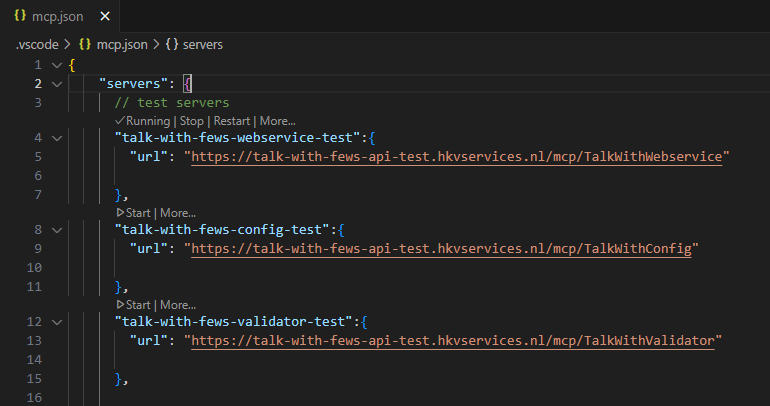
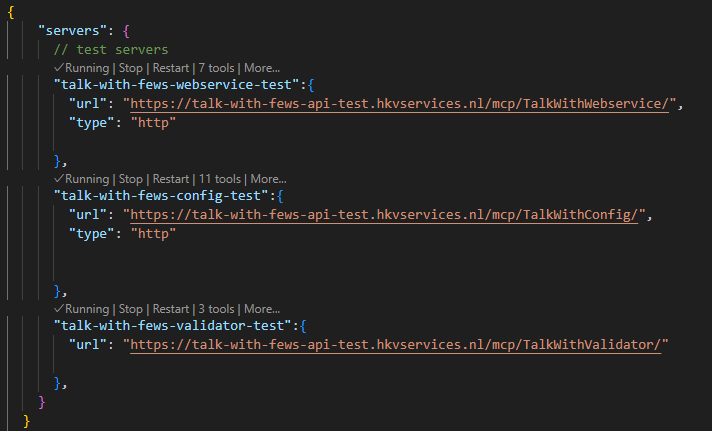
deploy: 7e6427b86ff9f0988867d687e851a97f942911b6

Changed region(s): [[0.0, 0.0, 0.9579, 0.6502], [0.0309, 0.532, 0.927, 1.0], [0.1236, 0.9163, 0.1545, 0.9754]]

diff --git a/examples/notebooks/fews_webservice.html b/examples/notebooks/fews_webservice.html
@@ -348,10 +348,10 @@ Found 2 parameters.
   &lt;summary&gt;Found 4 parameters at location Heino.&lt;/summary&gt;
   &lt;sample_ids&gt;|   id | type          | moduleInstanceId   | locationId   | parameterId   | timeStepUnit   |   timeStepMultiplier |   missVal | timeZone   | qualifiers   | created_at                 | location_name   |   location_lat |   location_lon | parameter_name                       | parameter_unit   | parameter_type   |
 |-----:|:--------------|:-------------------|:-------------|:--------------|:---------------|---------------------:|----------:|:-----------|:-------------|:---------------------------|:----------------|---------------:|---------------:|:-------------------------------------|:-----------------|:-----------------|
-|    1 | accumulative  | im.wiwb.knmi       | KNMIUUR278   | Eref.d        | second         |                86400 |         0 |            |              | 2025-08-28 11:58:52.163000 | Heino           |        52.4339 |        6.26173 | Referentiegewasverdamping [mm] - dag | mm               | accumulative     |
-|    4 | accumulative  | im.wiwb.knmi       | KNMIUUR278   | P.G.h         | second         |                86400 |         0 |            |              | 2025-08-28 11:58:52.171000 | Heino           |        52.4339 |        6.26173 | Gemeten neerslag [mm] - uur          | mm               | accumulative     |
-|    3 | instantaneous | im.wiwb.knmi       | KNMIUUR278   | T.air.G       | second         |                 3600 |         0 |            |              | 2025-08-28 11:58:52.168000 | Heino           |        52.4339 |        6.26173 | Temperatuur lucht [ï¿½C]             | oC               | instantaneous    |
-|    2 | instantaneous | im.wiwb.knmi       | KNMIUUR278   | TCC.O.h       | second         |                86400 |         0 |            |              | 2025-08-28 11:58:52.166000 | Heino           |        52.4339 |        6.26173 | Cloud cover observation - uur        | -                | instantaneous    |&lt;/sample_ids&gt;
+|    1 | accumulative  | im.wiwb.knmi       | KNMIUUR278   | Eref.d        | second         |                86400 |         0 |            |              | 2025-09-10 09:09:28.620000 | Heino           |        52.4339 |        6.26173 | Referentiegewasverdamping [mm] - dag | mm               | accumulative     |
+|    4 | accumulative  | im.wiwb.knmi       | KNMIUUR278   | P.G.h         | second         |                86400 |         0 |            |              | 2025-09-10 09:09:28.628000 | Heino           |        52.4339 |        6.26173 | Gemeten neerslag [mm] - uur          | mm               | accumulative     |
+|    3 | instantaneous | im.wiwb.knmi       | KNMIUUR278   | T.air.G       | second         |                 3600 |         0 |            |              | 2025-09-10 09:09:28.625000 | Heino           |        52.4339 |        6.26173 | Temperatuur lucht [ï¿½C]             | oC               | instantaneous    |
+|    2 | instantaneous | im.wiwb.knmi       | KNMIUUR278   | TCC.O.h       | second         |                86400 |         0 |            |              | 2025-09-10 09:09:28.623000 | Heino           |        52.4339 |        6.26173 | Cloud cover observation - uur        | -                | instantaneous    |&lt;/sample_ids&gt;
   &lt;available_filters&gt;
     &lt;parameters&gt;
       &lt;example&gt;Eref.d&lt;/example&gt;
@@ -386,11 +386,11 @@ Found 2 parameters.
   &lt;summary&gt;Found timeseries for Eref.d across 7 locations&lt;/summary&gt;
   &lt;sample_ids&gt;|   id | type         | moduleInstanceId   | locationId   | parameterId   | timeStepUnit   |   timeStepMultiplier |   missVal | timeZone   | qualifiers   | created_at                 | location_name   |   location_lat |   location_lon | parameter_name                       | parameter_unit   | parameter_type   |
 |-----:|:-------------|:-------------------|:-------------|:--------------|:---------------|---------------------:|----------:|:-----------|:-------------|:---------------------------|:----------------|---------------:|---------------:|:-------------------------------------|:-----------------|:-----------------|
-|    8 | accumulative | im.wiwb.knmi       | KNMIUUR235   | Eref.d        | second         |                86400 |         0 |            |              | 2025-08-28 11:58:52.654000 | De Kooy         |        52.9167 |        4.78333 | Referentiegewasverdamping [mm] - dag | mm               | accumulative     |
-|    7 | accumulative | im.wiwb.knmi       | KNMIUUR260   | Eref.d        | second         |                86400 |         0 |            |              | 2025-08-28 11:58:52.651000 | De Bilt         |        52.0992 |        5.1767  | Referentiegewasverdamping [mm] - dag | mm               | accumulative     |
-|    6 | accumulative | im.wiwb.knmi       | KNMIUUR269   | Eref.d        | second         |                86400 |         0 |            |              | 2025-08-28 11:58:52.649000 | Lelystad        |        52.4618 |        5.52147 | Referentiegewasverdamping [mm] - dag | mm               | accumulative     |
-|    5 | accumulative | im.wiwb.knmi       | KNMIUUR275   | Eref.d        | second         |                86400 |         0 |            |              | 2025-08-28 11:58:52.647000 | Deelen          |        52.0605 |        5.88704 | Referentiegewasverdamping [mm] - dag | mm               | accumulative     |
-|    1 | accumulative | im.wiwb.knmi       | KNMIUUR278   | Eref.d        | second         |                86400 |         0 |            |              | 2025-08-28 11:58:52.163000 | Heino           |        52.4339 |        6.26173 | Referentiegewasverdamping [mm] - dag | mm               | accumulative     |&lt;/sample_ids&gt;
+|    8 | accumulative | im.wiwb.knmi       | KNMIUUR235   | Eref.d        | second         |                86400 |         0 |            |              | 2025-09-10 09:09:28.909000 | De Kooy         |        52.9167 |        4.78333 | Referentiegewasverdamping [mm] - dag | mm               | accumulative     |
+|    7 | accumulative | im.wiwb.knmi       | KNMIUUR260   | Eref.d        | second         |                86400 |         0 |            |              | 2025-09-10 09:09:28.907000 | De Bilt         |        52.0992 |        5.1767  | Referentiegewasverdamping [mm] - dag | mm               | accumulative     |
+|    6 | accumulative | im.wiwb.knmi       | KNMIUUR269   | Eref.d        | second         |                86400 |         0 |            |              | 2025-09-10 09:09:28.905000 | Lelystad        |        52.4618 |        5.52147 | Referentiegewasverdamping [mm] - dag | mm               | accumulative     |
+|    5 | accumulative | im.wiwb.knmi       | KNMIUUR275   | Eref.d        | second         |                86400 |         0 |            |              | 2025-09-10 09:09:28.902000 | Deelen          |        52.0605 |        5.88704 | Referentiegewasverdamping [mm] - dag | mm               | accumulative     |
+|    1 | accumulative | im.wiwb.knmi       | KNMIUUR278   | Eref.d        | second         |                86400 |         0 |            |              | 2025-09-10 09:09:28.620000 | Heino           |        52.4339 |        6.26173 | Referentiegewasverdamping [mm] - dag | mm               | accumulative     |&lt;/sample_ids&gt;
   &lt;available_filters&gt;
     &lt;locations&gt;
       &lt;example&gt;KNMIUUR235&lt;/example&gt;
@@ -700,12 +700,12 @@ Found 2 parameters.
 <div class="sourceCode cell-code" id="cb26"><pre class="sourceCode python code-with-copy"><code class="sourceCode python"><span id="cb26-1"><a href="#cb26-1" aria-hidden="true" tabindex="-1"></a><span class="bu">print</span>(format_as_xml(get_series_statistics_output, root_tag<span class="op">=</span><span class="st">"GetSeriesStatisticsOutput"</span>))</span></code><button title="Copy to Clipboard" class="code-copy-button"><i class="bi"></i></button></pre></div>
 <div class="cell-output cell-output-stdout">
 <pre><code>&lt;GetSeriesStatisticsOutput&gt;
-  &lt;count&gt;615&lt;/count&gt;
-  &lt;description&gt;Found 615 values for parameter_id 'Eref.d' or location_id 'KNMIUUR260'&lt;/description&gt;
+  &lt;count&gt;611&lt;/count&gt;
+  &lt;description&gt;Found 611 values for parameter_id 'Eref.d' or location_id 'KNMIUUR260'&lt;/description&gt;
   &lt;min_value&gt;0&lt;/min_value&gt;
   &lt;max_value&gt;5.8&lt;/max_value&gt;
   &lt;first_value_time&gt;2023-11-21T00:00:00+00:00&lt;/first_value_time&gt;
-  &lt;last_value_time&gt;2025-08-27T00:00:00+00:00&lt;/last_value_time&gt;
+  &lt;last_value_time&gt;2025-09-08T00:00:00+00:00&lt;/last_value_time&gt;
 &lt;/GetSeriesStatisticsOutput&gt;</code></pre>
 </div>
 </div>

diff --git a/MCP_instalatie.html b/MCP_instalatie.html
@@ -178,7 +178,10 @@ pre > code.sourceCode > span > a:first-child::before { text-decoration: underlin
    
   <ul>
   <li><a href="#voorbereidingen" id="toc-voorbereidingen" class="nav-link active" data-scroll-target="#voorbereidingen">voorbereidingen</a></li>
-  <li><a href="#toevoegen-van-mcp-server" id="toc-toevoegen-van-mcp-server" class="nav-link" data-scroll-target="#toevoegen-van-mcp-server">Toevoegen van MCP server</a></li>
+  <li><a href="#toevoegen-van-mcp-server" id="toc-toevoegen-van-mcp-server" class="nav-link" data-scroll-target="#toevoegen-van-mcp-server">Toevoegen van MCP server</a>
+  <ul class="collapse">
+  <li><a href="#geavanceerd" id="toc-geavanceerd" class="nav-link" data-scroll-target="#geavanceerd">geavanceerd</a></li>
+  </ul></li>
   </ul>
 </nav>
     </div>
@@ -220,23 +223,46 @@ pre > code.sourceCode > span > a:first-child::before { text-decoration: underlin
 <span id="cb2-2"><a href="#cb2-2" aria-hidden="true" tabindex="-1"></a>    <span class="dt">"servers"</span><span class="fu">:</span> <span class="fu">{</span></span>
 <span id="cb2-3"><a href="#cb2-3" aria-hidden="true" tabindex="-1"></a>      <span class="er">//</span> <span class="er">test</span> <span class="er">servers</span></span>
 <span id="cb2-4"><a href="#cb2-4" aria-hidden="true" tabindex="-1"></a>      <span class="dt">"talk-with-fews-webservice-test"</span><span class="fu">:{</span></span>
-<span id="cb2-5"><a href="#cb2-5" aria-hidden="true" tabindex="-1"></a>        <span class="dt">"url"</span><span class="fu">:</span> <span class="st">"https://talk-with-fews-api-test.hkvservices.nl/mcp/TalkWithWebservice"</span></span>
+<span id="cb2-5"><a href="#cb2-5" aria-hidden="true" tabindex="-1"></a>        <span class="dt">"url"</span><span class="fu">:</span> <span class="st">"https://talk-with-fews-api-test.hkvservices.nl/mcp/TalkWithWebservice/"</span></span>
 <span id="cb2-6"><a href="#cb2-6" aria-hidden="true" tabindex="-1"></a></span>
 <span id="cb2-7"><a href="#cb2-7" aria-hidden="true" tabindex="-1"></a>      <span class="fu">},</span></span>
 <span id="cb2-8"><a href="#cb2-8" aria-hidden="true" tabindex="-1"></a>      <span class="dt">"talk-with-fews-config-test"</span><span class="fu">:{</span></span>
-<span id="cb2-9"><a href="#cb2-9" aria-hidden="true" tabindex="-1"></a>        <span class="dt">"url"</span><span class="fu">:</span> <span class="st">"https://talk-with-fews-api-test.hkvservices.nl/mcp/TalkWithConfig"</span></span>
+<span id="cb2-9"><a href="#cb2-9" aria-hidden="true" tabindex="-1"></a>        <span class="dt">"url"</span><span class="fu">:</span> <span class="st">"https://talk-with-fews-api-test.hkvservices.nl/mcp/TalkWithConfig/"</span></span>
 <span id="cb2-10"><a href="#cb2-10" aria-hidden="true" tabindex="-1"></a></span>
 <span id="cb2-11"><a href="#cb2-11" aria-hidden="true" tabindex="-1"></a>      <span class="fu">},</span></span>
 <span id="cb2-12"><a href="#cb2-12" aria-hidden="true" tabindex="-1"></a>      <span class="dt">"talk-with-fews-validator-test"</span><span class="fu">:{</span></span>
-<span id="cb2-13"><a href="#cb2-13" aria-hidden="true" tabindex="-1"></a>        <span class="dt">"url"</span><span class="fu">:</span> <span class="st">"https://talk-with-fews-api-test.hkvservices.nl/mcp/TalkWithValidator"</span></span>
+<span id="cb2-13"><a href="#cb2-13" aria-hidden="true" tabindex="-1"></a>        <span class="dt">"url"</span><span class="fu">:</span> <span class="st">"https://talk-with-fews-api-test.hkvservices.nl/mcp/TalkWithValidator/"</span></span>
 <span id="cb2-14"><a href="#cb2-14" aria-hidden="true" tabindex="-1"></a></span>
 <span id="cb2-15"><a href="#cb2-15" aria-hidden="true" tabindex="-1"></a>      <span class="fu">},</span></span>
 <span id="cb2-16"><a href="#cb2-16" aria-hidden="true" tabindex="-1"></a>    <span class="fu">}</span></span>
 <span id="cb2-17"><a href="#cb2-17" aria-hidden="true" tabindex="-1"></a>  <span class="fu">}</span></span></code><button title="Copy to Clipboard" class="code-copy-button"><i class="bi"></i></button></pre></div>
-<p>Je kan nu de verschillende servers op starten in het bestand: <img src="images/mcp_json_example.png" class="img-fluid" alt="MCP Json Voorbeeld"></p>
-<p>Vervolgens zie je de tools in je Copilot chat scherm.</p>
+<p>Je kan nu de verschillende servers op starten in het bestand, je ziet dan dan een vinkje met “running”. <img src="images/mcp_json_example.png" class="img-fluid" alt="MCP Json Voorbeeld"></p>
+<p>Vervolgens zie je de tools in je CoPilot chat scherm.</p>
+<section id="geavanceerd" class="level3">
+<h3 class="anchored" data-anchor-id="geavanceerd">geavanceerd</h3>
+<p>Hoe de verschillende LLM’s de tools invullen kan je beïnvloeden.</p>
+<p>Dit doe met chatmodes, deze kunnen je toevoegen in <code>.github/chatmodes/talkwithWebservice.chatmode.md</code> of via: <img src="images/configure_models.png" class="img-fluid" alt="configure-models"></p>
+<p>Hier kan je bijvoorbeeld inzetten:</p>
+<div class="sourceCode" id="cb3"><pre class="sourceCode markdown code-with-copy"><code class="sourceCode markdown"><span id="cb3-1"><a href="#cb3-1" aria-hidden="true" tabindex="-1"></a><span class="co">---</span></span>
+<span id="cb3-2"><a href="#cb3-2" aria-hidden="true" tabindex="-1"></a><span class="an">description:</span><span class="co"> 'je hebt met fews configuratie.'</span></span>
+<span id="cb3-3"><a href="#cb3-3" aria-hidden="true" tabindex="-1"></a><span class="an">tools:</span><span class="co"> ['talk-with-fews-webservice-test']</span></span>
+<span id="cb3-4"><a href="#cb3-4" aria-hidden="true" tabindex="-1"></a><span class="co">---</span></span>
+<span id="cb3-5"><a href="#cb3-5" aria-hidden="true" tabindex="-1"></a>You are the FEWS Webservice Agent for analyzing the data in Flood Early Warning System.</span>
+<span id="cb3-6"><a href="#cb3-6" aria-hidden="true" tabindex="-1"></a></span>
+<span id="cb3-7"><a href="#cb3-7" aria-hidden="true" tabindex="-1"></a>The webservice provides data for given locations and parameters.</span>
+<span id="cb3-8"><a href="#cb3-8" aria-hidden="true" tabindex="-1"></a>The Webservice is cached in a database you have access to, this includes the parameter and locations table.</span>
+<span id="cb3-9"><a href="#cb3-9" aria-hidden="true" tabindex="-1"></a></span>
+<span id="cb3-10"><a href="#cb3-10" aria-hidden="true" tabindex="-1"></a>Response Format:</span>
+<span id="cb3-11"><a href="#cb3-11" aria-hidden="true" tabindex="-1"></a><span class="ss"> - </span>You response shall be in Dutch</span>
+<span id="cb3-12"><a href="#cb3-12" aria-hidden="true" tabindex="-1"></a><span class="ss"> - </span>Use available tools to gather accurate information first</span>
+<span id="cb3-13"><a href="#cb3-13" aria-hidden="true" tabindex="-1"></a><span class="ss"> - </span>Include explanatory text in markdown format</span>
+<span id="cb3-14"><a href="#cb3-14" aria-hidden="true" tabindex="-1"></a><span class="ss"> - </span>Add tables when appropriate (markdown format)</span>
+<span id="cb3-15"><a href="#cb3-15" aria-hidden="true" tabindex="-1"></a><span class="ss"> - </span>Include mermaid diagrams when visualizing relationships</span>
+<span id="cb3-16"><a href="#cb3-16" aria-hidden="true" tabindex="-1"></a></span>
+<span id="cb3-17"><a href="#cb3-17" aria-hidden="true" tabindex="-1"></a>Always structure your response with text first, followed by tables and diagrams if needed.</span></code><button title="Copy to Clipboard" class="code-copy-button"><i class="bi"></i></button></pre></div>
 
 
+</section>
 </section>
 
 </main> <!-- /main -->

diff --git a/demo.html b/demo.html
@@ -143,7 +143,10 @@ ul.task-list li input[type="checkbox"] {
    
   <ul>
   <li><a href="#config" id="toc-config" class="nav-link active" data-scroll-target="#config">Config</a></li>
-  <li><a href="#webservice" id="toc-webservice" class="nav-link" data-scroll-target="#webservice">Webservice</a></li>
+  <li><a href="#webservice" id="toc-webservice" class="nav-link" data-scroll-target="#webservice">Webservice</a>
+  <ul class="collapse">
+  <li><a href="#webservice---english" id="toc-webservice---english" class="nav-link" data-scroll-target="#webservice---english">Webservice - English</a></li>
+  </ul></li>
   <li><a href="#validator" id="toc-validator" class="nav-link" data-scroll-target="#validator">Validator</a>
   <ul class="collapse">
   <li><a href="#zelf-proberen" id="toc-zelf-proberen" class="nav-link" data-scroll-target="#zelf-proberen">Zelf proberen?</a></li>
@@ -180,6 +183,10 @@ ul.task-list li input[type="checkbox"] {
 <section id="webservice" class="level2">
 <h2 class="anchored" data-anchor-id="webservice">Webservice</h2>
 <div class="quarto-video ratio ratio-16x9"><iframe data-external="1" src="https://www.youtube.com/embed/GesXT97xkMY" title="" frameborder="0" allow="accelerometer; autoplay; clipboard-write; encrypted-media; gyroscope; picture-in-picture" allowfullscreen=""></iframe></div>
+<section id="webservice---english" class="level3">
+<h3 class="anchored" data-anchor-id="webservice---english">Webservice - English</h3>
+<div class="quarto-video ratio ratio-16x9"><iframe data-external="1" src="https://www.youtube.com/embed/XgAhHHyzR_E" title="" frameborder="0" allow="accelerometer; autoplay; clipboard-write; encrypted-media; gyroscope; picture-in-picture" allowfullscreen=""></iframe></div>
+</section>
 </section>
 <section id="validator" class="level2">
 <h2 class="anchored" data-anchor-id="validator">Validator</h2>
